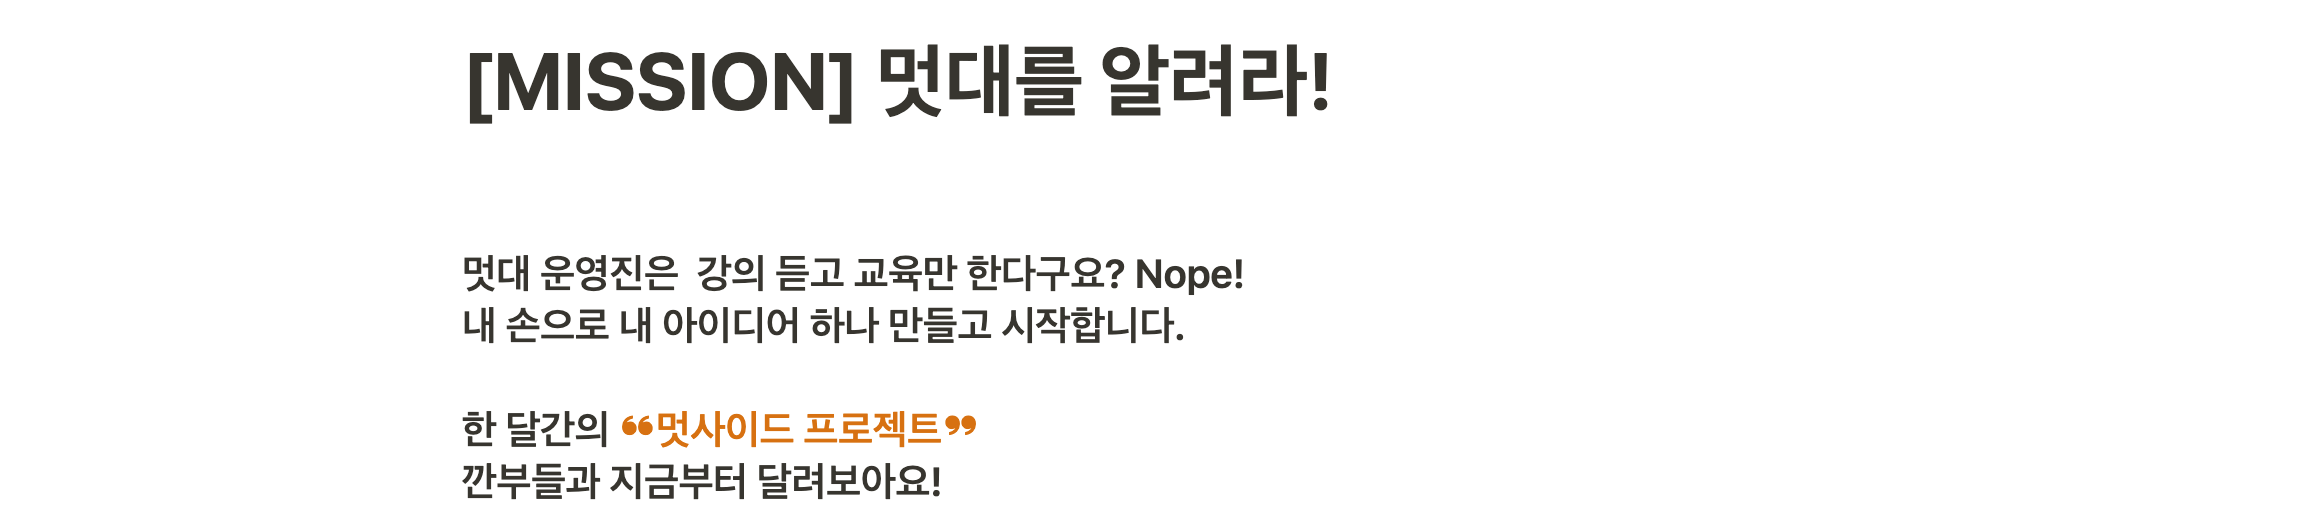
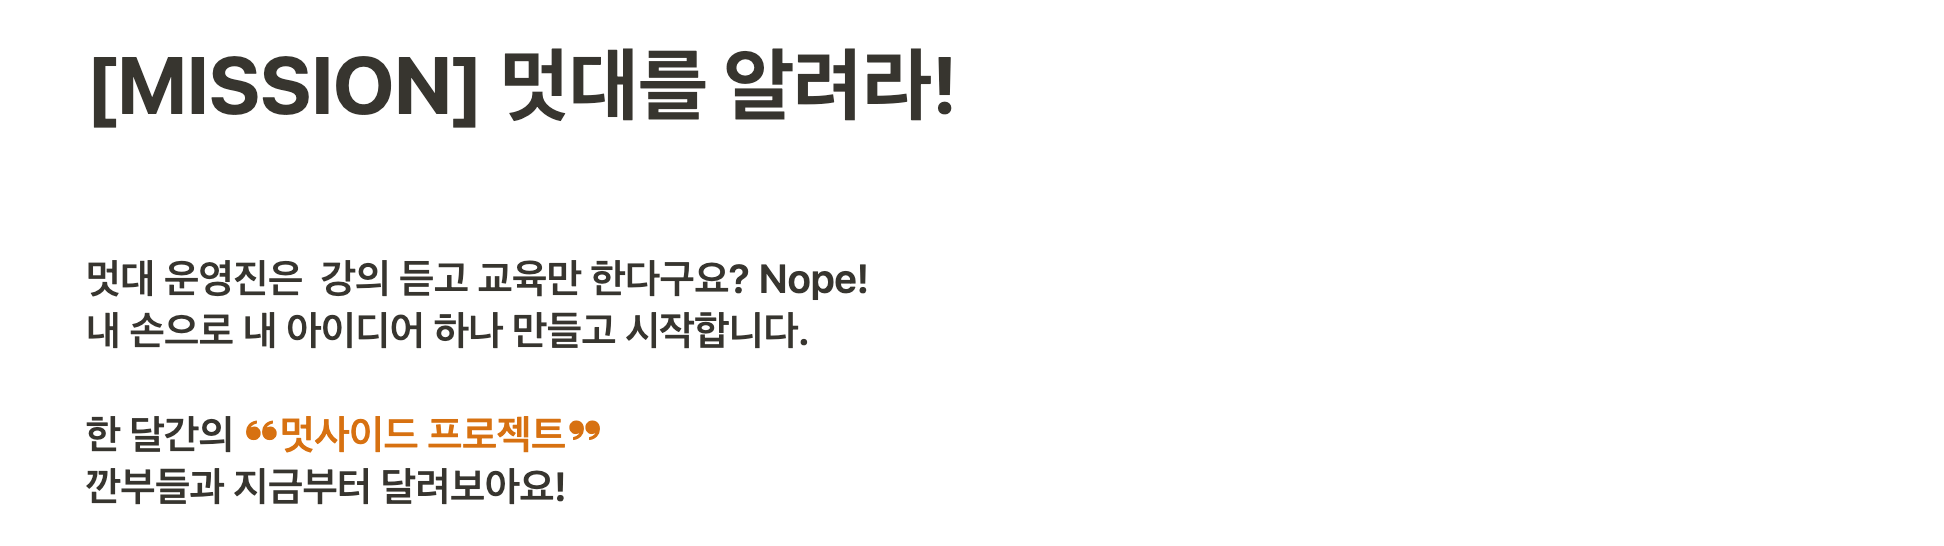
[22.02.04][FIX][서희찬]SlideCss

Changed region(s): [[0.0309, 0.0604, 0.5864, 0.2415], [0.0309, 0.4528, 0.5556, 0.6642], [0.0309, 0.7547, 0.4321, 0.9358]]

diff --git a/css/slide.css b/css/slide.css
@@ -6,24 +6,47 @@ ul,li{list-style:none;}
 .slide li:nth-child(1){
 
     background-image: url(../img/slide1.png);
-    background-size: auto 250px;
+    background-size: auto 90%;
     background-repeat: no-repeat;
 }
 .slide li:nth-child(2){
     background-image: url(../img/slide2.png);
-    background-size: auto 300px;
+    background-size: auto 90%;
     background-repeat: no-repeat;
 }
 .slide li:nth-child(3){
-    background-image: url(../img/slide4.png);
-    background-size: auto 450px;
+    background-image: url(../img/slide1.png);
+    background-size: auto 90%;
     background-repeat: no-repeat;
 }
 .slide li:nth-child(4){
     background-image: url(../img/slide2.png);
-    background-size: auto 300px;
+    background-size: auto 90%;
     background-repeat: no-repeat;
 }
+@media (max-width: 768px) {
+    .slide li:nth-child(1){
+        background-image: url(../img/slide1.png);
+        background-size: auto 55%;
+        background-repeat: no-repeat;
+    }
+    .slide li:nth-child(2){
+        background-image: url(../img/slide2.png);
+        background-size: auto 55%;
+        background-repeat: no-repeat;
+    }
+    .slide li:nth-child(3){
+        background-image: url(../img/slide3.png);
+        background-size: auto 55%;
+        background-repeat: no-repeat;
+    }
+    .slide li:nth-child(4){
+        background-image: url(../img/slide1.png);
+        background-size: auto 55%;
+        background-repeat: no-repeat;
+    }
+  }
+  
 @keyframes slide {
 0% {margin-left:0;} /* 0 ~ 10  : 정지 */
 10% {margin-left:0;} /* 10 ~ 25 : 변이 */
@@ -36,6 +59,3 @@ ul,li{list-style:none;}
 100% {margin-left:0;}
 }
 
-body{
-    background-image: ;
-}

diff --git a/index.html b/index.html
@@ -33,10 +33,7 @@
                 <li><a class="navbarFont" href="story.html">창업 Stroy.</a></li>
         </ul>
         <a href="#" class="navbar__toggleBtn"> <i class="fas fa-bars"></i> </a>
-</nav>
-        <div>
-        </div>
-        
+</nav>        
         <div class="slide">
                 <ul>
                   <li></li>
@@ -45,10 +42,11 @@
                   <li></li>
                 </ul>
         </div>
+        </div>        
         <div style="text-align: center; font-weight: bold; font-size: 40px; margin-top: 30px; margin-bottom: 30px; font-family: 'GmarketSansMedium';">
                 참여 대학교
         </div>
-        <section class="py-4 overflow-hidden d-none d-sm-block">
+        <section class="py-3 overflow-hidden d-none d-sm-block">
                 <div class="wap">
                         <div class="box1">
                                 <button class="controls" style="background-color: white; border: none;">

diff --git a/mbti.html b/mbti.html
@@ -55,8 +55,8 @@
         <img src="./img/main.png" alt="mainImage" class="img-fluid">
       </div>
       <p class="Gmarket testBoxBody">
-        동국대학교 멋쟁이사자처럼에서 제작한<br>      
-        <!-- 멋쟁이사자처럼 with9/10°팀에서 제작한<br> -->
+        <!-- 동국대학교 멋쟁이사자처럼에서 제작한<br>       -->
+        멋쟁이사자처럼 with9/10°팀에서 제작한<br>
         <!-- with9/10° -->
         개발자 성향 TEST 입니다!
         <br><br>
